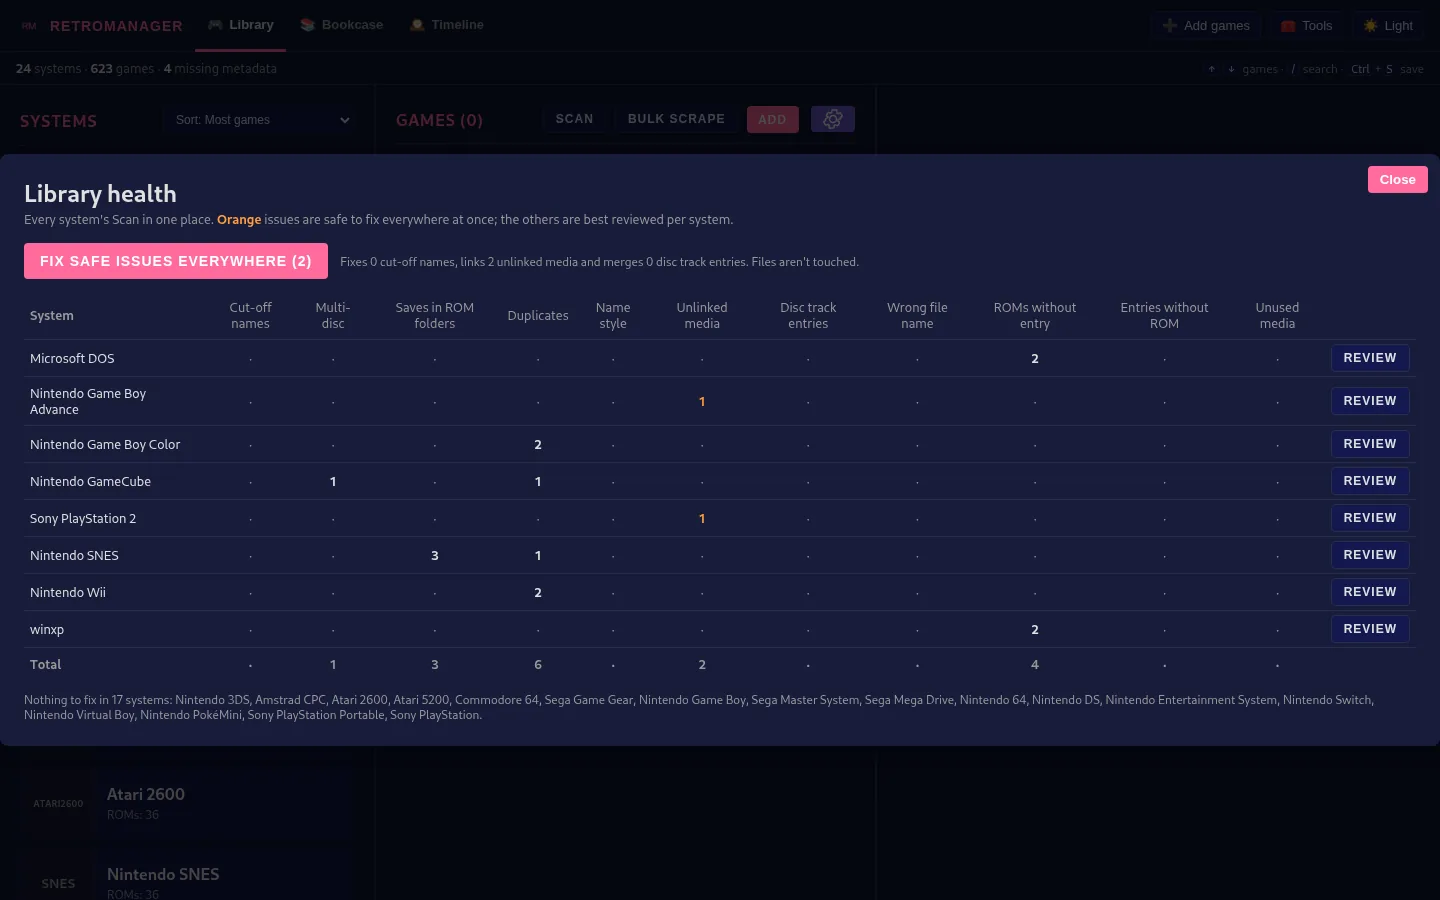
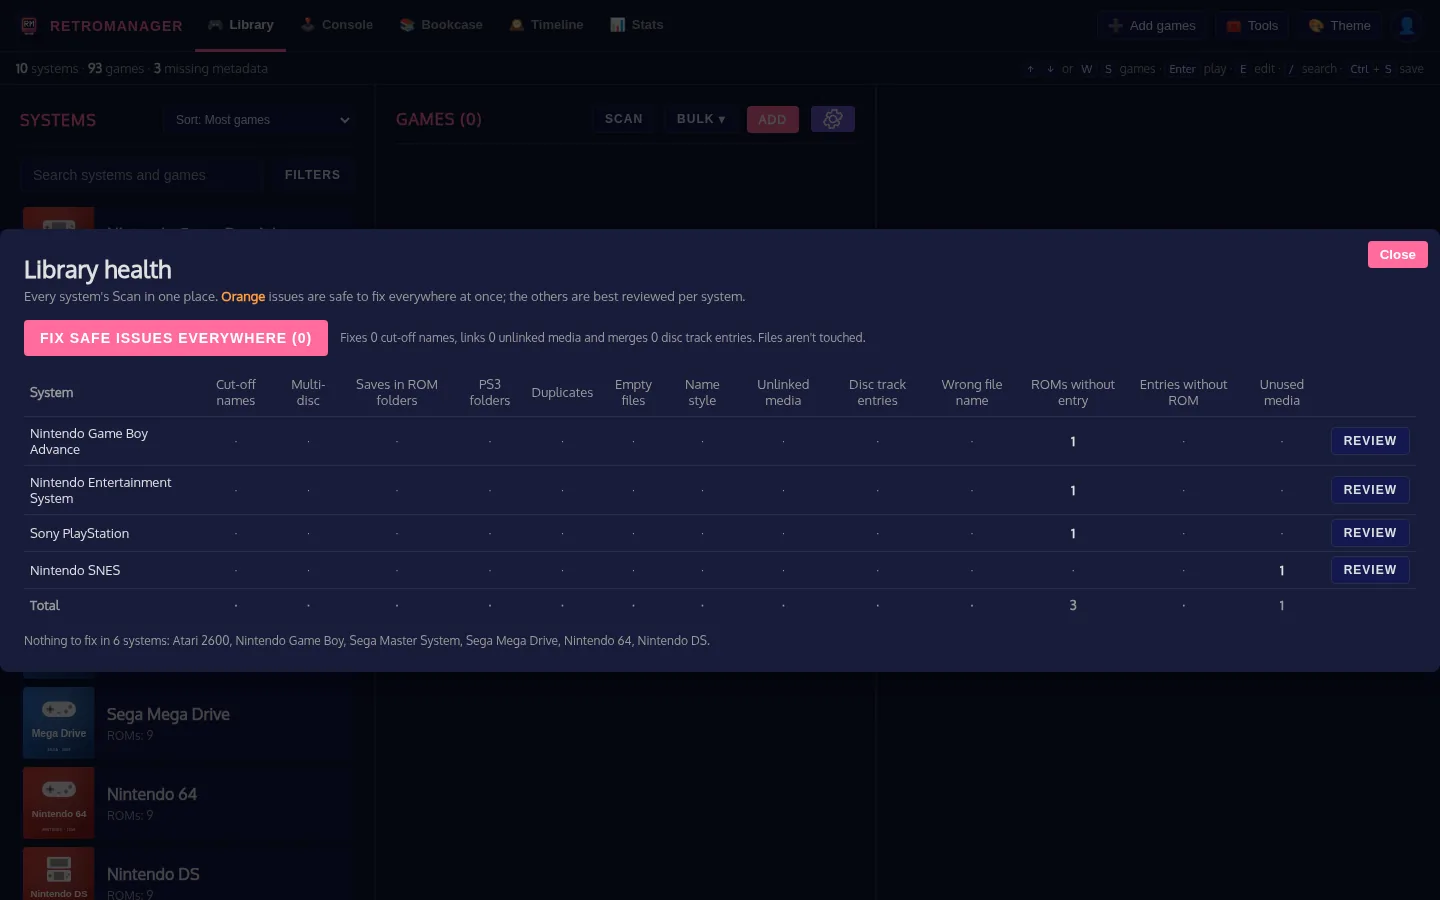
RetroManager 2.0.1: screenshots of made-up games
The README's screenshots now show a demo library of invented games, with
names, descriptions and pictures drawn by tools/make_demo_library.py, so
they show no one else's games. tools/take_screenshots.py takes them again.

diff --git a/tools/make_demo_library.py b/tools/make_demo_library.py
@@ -1,0 +1,221 @@
+"""
+Makes a demo library of made-up games, for screenshots of RetroManager that
+show no one else's games: every name, description and picture here is
+invented, and the pictures (box, spine, screenshot, logo) are drawn by this
+script from shapes and Pillow's own font. The "ROM" files are a few bytes of
+nothing: they don't run.
+
+    python tools/make_demo_library.py <folder>
+
+makes <folder>/roms, <folder>/media and the rest, the layout RetroManager
+expects; point it there (as tools/take_screenshots.py does) to look at it.
+"""
+
+import os
+import random
+import sys
+from pathlib import Path
+from xml.sax.saxutils import escape
+
+from PIL import Image, ImageDraw, ImageFilter, ImageFont
+
+# system folder -> (file extension, years the games are from, box shape (w, h), spine width)
+SYSTEMS = {
+    'atari2600': ('.a26', (1978, 1984), (300, 400), 50),
+    'nes': ('.nes', (1985, 1993), (290, 400), 44),
+    'mastersystem': ('.sms', (1986, 1993), (290, 400), 44),
+    'snes': ('.sfc', (1991, 1998), (400, 290), 50),
+    'megadrive': ('.md', (1990, 1997), (290, 410), 56),
+    'gb': ('.gb', (1990, 1999), (300, 300), 34),
+    'n64': ('.z64', (1996, 2002), (400, 290), 56),
+    'psx': ('.cue', (1995, 2003), (400, 400), 40),
+    'gba': ('.gba', (2001, 2008), (300, 300), 34),
+    'nds': ('.nds', (2005, 2012), (300, 270), 30),
+}
+WORDS_A = ['Star', 'Moon', 'Pixel', 'Crystal', 'Thunder', 'Neon', 'Shadow', 'Rocket', 'Copper', 'Velvet', 'Comet', 'Ember',
+           'Frost', 'Turbo', 'Echo', 'Lumen', 'Nova', 'Cobalt', 'Willow', 'Quartz', 'Orbit', 'Maple', 'Tidal', 'Solar']
+WORDS_B = ['Knights', 'Racer', 'Quest', 'Garden', 'Legends', 'Patrol', 'Odyssey', 'Kingdom', 'Rally', 'Harbour', 'Drift',
+           'Academy', 'Frontier', 'Circus', 'Voyage', 'Workshop', 'Arena', 'Tales', 'Express', 'Island', 'Mansion', 'Derby']
+GENRES = ['Platform', 'Racing', 'Puzzle', 'Role Playing Game', 'Shooter', 'Adventure', 'Sports', 'Fighting', 'Strategy']
+STUDIOS = ['Bright Hill Games', 'Paper Lantern', 'Studio Kestrel', 'Northwind Soft', 'Little Orbit Works', 'Mosaic Bay',
+           'Tin Robot', 'Harbourlight', 'Quiet Fox Studio', 'Sunday Arcade']
+PALETTES = [((32, 40, 110), (236, 92, 140)), ((18, 80, 92), (250, 196, 70)), ((70, 26, 92), (90, 220, 230)),
+            ((140, 30, 40), (255, 210, 120)), ((20, 60, 40), (170, 240, 120)), ((40, 40, 48), (255, 130, 60)),
+            ((10, 30, 70), (120, 170, 255)), ((96, 52, 20), (255, 236, 180))]
+
+
+def font(size):
+    return ImageFont.load_default(size=size)
+
+
+def gradient(size, top, bottom):
+    w, h = size
+    im = Image.new('RGB', size, top)
+    d = ImageDraw.Draw(im)
+    for y in range(h):
+        t = y / max(1, h - 1)
+        d.line([(0, y), (w, y)], fill=tuple(int(a + (b - a) * t) for a, b in zip(top, bottom)))
+    return im
+
+
+def scene(im, rng, accent):
+    """Hills, a sun or moon, and a scatter of stars or shapes."""
+    w, h = im.size
+    d = ImageDraw.Draw(im)
+    for _ in range(40):
+        x, y, r = rng.uniform(0, w), rng.uniform(0, h * 0.6), rng.uniform(0.6, 2.2)
+        d.ellipse([x - r, y - r, x + r, y + r], fill=(255, 255, 255))
+    cx, cy, r = rng.uniform(w * 0.2, w * 0.8), rng.uniform(h * 0.15, h * 0.4), rng.uniform(w * 0.08, w * 0.16)
+    d.ellipse([cx - r, cy - r, cx + r, cy + r], fill=accent)
+    for layer in range(3):
+        base = h * (0.62 + layer * 0.1)
+        shade = tuple(max(0, int(c * (0.35 + layer * 0.15))) for c in accent)
+        points = [(0, h)]
+        for i in range(9):
+            points.append((w * i / 8, base - rng.uniform(0, h * 0.12)))
+        points.append((w, h))
+        d.polygon(points, fill=shade)
+
+
+def title_lines(name, width, size):
+    words, lines, line = name.split(), [], ''
+    f = font(size)
+    for word in words:
+        trial = (line + ' ' + word).strip()
+        if f.getlength(trial) > width and line:
+            lines.append(line)
+            line = word
+        else:
+            line = trial
+    lines.append(line)
+    return lines
+
+
+def box(name, system, palette, rng, size):
+    w, h = size
+    im = gradient(size, palette[0], tuple(min(255, c // 3) for c in palette[0]))
+    scene(im, rng, palette[1])
+    d = ImageDraw.Draw(im)
+    # A band along the top with the title
+    d.rectangle([0, 0, w, int(h * 0.27)], fill=tuple(c // 2 for c in palette[0]))
+    size_t = max(22, int(w * 0.1))
+    for i, line in enumerate(title_lines(name, w * 0.86, size_t)[:2]):
+        d.text((w * 0.07 + 2, h * 0.04 + i * size_t * 1.1 + 2), line, font=font(size_t), fill=(0, 0, 0))
+        d.text((w * 0.07, h * 0.04 + i * size_t * 1.1), line, font=font(size_t), fill=(255, 255, 255))
+    d.rectangle([0, h - 26, w, h], fill=(16, 16, 20))
+    d.text((10, h - 22), 'DEMO · MADE-UP GAME', font=font(14), fill=palette[1])
+    return im
+
+
+def spine(name, palette, size):
+    w, h = size   # (the spine stands up: drawn long and turned)
+    strip = Image.new('RGB', (h, w), tuple(c // 2 for c in palette[0]))
+    d = ImageDraw.Draw(strip)
+    d.rectangle([0, 0, 18, w], fill=palette[1])
+    d.text((30, w / 2 - 11), name, font=font(max(14, int(w * 0.42))), fill=(255, 255, 255))
+    return strip.rotate(90, expand=True)
+
+
+def screenshot(palette, rng):
+    """A small picture of a made-up game, scaled up with its pixels square."""
+    w, h = 160, 120
+    im = gradient((w, h), palette[0], tuple(min(255, c + 40) for c in palette[0]))
+    d = ImageDraw.Draw(im)
+    for x in range(0, w, 16):
+        top = h - 16 - rng.choice([0, 0, 16, 32])
+        d.rectangle([x, top, x + 15, h], fill=tuple(c // 2 for c in palette[1]))
+        d.rectangle([x, top, x + 15, top + 3], fill=palette[1])
+    px = rng.randrange(20, w - 30)
+    d.rectangle([px, h - 46, px + 9, h - 33], fill=(255, 255, 255))
+    for _ in range(5):
+        x, y = rng.randrange(8, w - 8), rng.randrange(10, h - 60)
+        d.ellipse([x, y, x + 5, y + 5], fill=palette[1])
+    d.text((4, 3), f'SCORE {rng.randrange(1, 99) * 100:06d}', font=font(9), fill=(255, 255, 255))
+    return im.resize((640, 480), Image.NEAREST)
+
+
+def logo(name, palette):
+    f = font(64)
+    width = int(f.getlength(name)) + 40
+    im = Image.new('RGBA', (width, 110), (0, 0, 0, 0))
+    d = ImageDraw.Draw(im)
+    d.text((20, 18), name, font=f, fill=palette[1] + (255,), stroke_width=6, stroke_fill=(20, 20, 30, 255))
+    return im
+
+
+def main(target: Path):
+    rng = random.Random(2026)
+    names, used = [], set()
+    while len(names) < 90:
+        name = f"{rng.choice(WORDS_A)} {rng.choice(WORDS_B)}"
+        if name not in used:
+            used.add(name)
+            names.append(name)
+    (target / 'retromanager').mkdir(parents=True, exist_ok=True)
+    (target / 'retromanager' / 'setup.json').write_text('{"done": true}')
+    for sub in ('saves', 'savestates', 'BIOS', 'inbox', 'save-backups'):
+        (target / sub).mkdir(parents=True, exist_ok=True)
+    # Point RetroManager at it to learn each system's media folder name
+    os.environ.update(ROMS_PATH=str(target / 'roms'), MEDIA_PATH=str(target / 'media'), DATA_PATH=str(target / 'retromanager'),
+                      RETROMANAGER_NO_BACKGROUND='1', LOG_LEVEL='WARNING')
+    per_system = {system: [] for system in SYSTEMS}
+    for i, name in enumerate(names):
+        per_system[list(SYSTEMS)[i % len(SYSTEMS)]].append(name)
+    for system, (ext, (start, end), shape, spine_w) in SYSTEMS.items():
+        folder = target / 'roms' / system
+        folder.mkdir(parents=True, exist_ok=True)
+        for name in per_system[system]:
+            (folder / f"{name}{ext}").write_bytes(b'RetroManager demo: not a game\n')
+    # (a media folder named after each system, so each finds its own and not a neighbour's)
+    for system in SYSTEMS:
+        (target / 'media' / system).mkdir(parents=True, exist_ok=True)
+    sys.path.insert(0, str(Path(__file__).resolve().parent.parent))
+    from backend.core import scanner
+    for system, (ext, (start, end), shape, spine_w) in SYSTEMS.items():
+        media_system = scanner.media_index(system).media_system
+        media = target / 'media' / media_system
+        entries = []
+        for name in per_system[system]:
+            palette = rng.choice(PALETTES)
+            game_rng = random.Random(name)
+            year = rng.randint(start, end)
+            studio = rng.choice(STUDIOS)
+            genre = rng.choice(GENRES)
+            pictures = {
+                'box2d': box(name, system, palette, game_rng, shape),
+                'boxside': spine(name, palette, (spine_w, shape[1])),
+                'screenshot': screenshot(palette, game_rng),
+                'wheel': logo(name, palette),
+            }
+            for kind, picture in pictures.items():
+                (media / kind).mkdir(parents=True, exist_ok=True)
+                picture.save(media / kind / f"{name}.png")
+            desc = (f"{name} is a made-up {genre.lower()} game, invented for RetroManager's demo library. "
+                    f"Nothing about it is real: not the game, not {studio}, and not this picture of it.")
+            entries.append(f"""  <game>
+    <path>./{escape(name)}{ext}</path>
+    <name>{escape(name)}</name>
+    <desc>{escape(desc)}</desc>
+    <image>../../media/{escape(media_system)}/box2d/{escape(name)}.png</image>
+    <thumbnail>../../media/{escape(media_system)}/screenshot/{escape(name)}.png</thumbnail>
+    <rating>{rng.choice([0.5, 0.6, 0.7, 0.8, 0.9])}</rating>
+    <releasedate>{year}{rng.randint(1, 12):02d}{rng.randint(1, 28):02d}T000000</releasedate>
+    <developer>{escape(studio)}</developer>
+    <publisher>{escape(rng.choice(STUDIOS))}</publisher>
+    <genre>{escape(genre)}</genre>
+    <players>{rng.choice(['1', '1', '1-2', '1-4'])}</players>
+  </game>""")
+        (folder := target / 'roms' / system).mkdir(exist_ok=True)
+        # A little for Library health to show: games with no entry yet, and a picture nothing uses
+        if system in ('nes', 'psx', 'gba'):
+            (folder / f"Untitled Prototype{ext}").write_bytes(b'RetroManager demo: not a game\n')
+        if system == 'snes':
+            screenshot(rng.choice(PALETTES), random.Random(system)).save(media / 'screenshot' / 'Old Picture.png')
+        (folder / 'gamelist.xml').write_text('<?xml version="1.0"?>\n<gameList>\n' + '\n'.join(entries) + '\n</gameList>\n')
+        print(f"{system}: {len(entries)} games, pictures in media/{media_system}")
+
+
+if __name__ == '__main__':
+    if len(sys.argv) != 2:
+        sys.exit(__doc__)
+    main(Path(sys.argv[1]).resolve())

diff --git a/tools/take_screenshots.py b/tools/take_screenshots.py
@@ -1,0 +1,95 @@
+"""
+Takes the README's screenshots (docs/screenshots/*.webp) of RetroManager
+running against the demo library of made-up games (tools/make_demo_library.py),
+so they show no one else's games. Needs a Chromium-family browser on this
+machine and Playwright for Python (it drives the browser that's there, and
+downloads none):
+
+    python tools/make_demo_library.py /tmp/demo
+    python tools/take_screenshots.py /tmp/demo /usr/bin/chromium
+"""
+
+import io
+import os
+import subprocess
+import sys
+import time
+import urllib.request
+from pathlib import Path
+
+from PIL import Image
+from playwright.sync_api import sync_playwright
+
+ROOT = Path(__file__).resolve().parent.parent
+OUT = ROOT / 'docs' / 'screenshots'
+PORT = 5077
+SIZE = {'width': 1440, 'height': 900}
+
+
+def serve(library: Path):
+    env = dict(os.environ, ROMS_PATH=str(library / 'roms'), MEDIA_PATH=str(library / 'media'),
+               DATA_PATH=str(library / 'retromanager'), SAVES_PATH=str(library / 'saves'),
+               SAVESTATES_PATH=str(library / 'savestates'), SAVE_BACKUP_PATH=str(library / 'save-backups'),
+               INBOX_PATH=str(library / 'inbox'), BIOS_PATH=str(library / 'BIOS'), THUMB_DIR=str(library / 'retromanager' / 'thumbs'),
+               SAVE_PROFILES='', RETROMANAGER_NO_BACKGROUND='1', LOG_LEVEL='WARNING', SYSTEM_TILES='1')
+    for name in [n for n in env if n.startswith(('SCREENSCRAPER', 'IGDB', 'RETROACHIEVEMENTS', 'STEAMGRIDDB', 'THEGAMESDB'))]:
+        del env[name]
+    code = f"from backend.app import app; app.run(port={PORT})"
+    server = subprocess.Popen([sys.executable, '-c', code], cwd=ROOT, env=env)
+    for _ in range(60):
+        try:
+            urllib.request.urlopen(f'http://127.0.0.1:{PORT}/api/health', timeout=1)
+            return server
+        except OSError:
+            time.sleep(0.5)
+    server.kill()
+    sys.exit("RetroManager didn't start")
+
+
+def save(page, name):
+    picture = Image.open(io.BytesIO(page.screenshot()))
+    picture.save(OUT / f'{name}.webp', quality=82, method=6)
+    print('Wrote', OUT / f'{name}.webp')
+
+
+def settle(page, seconds=2.5):
+    page.wait_for_load_state('networkidle')
+    time.sleep(seconds)
+
+
+def main(library: Path, browser_path: str):
+    first_gba = sorted((library / 'roms' / 'gba').glob('*.gba'))[3].name
+    server = serve(library)
+    try:
+        with sync_playwright() as p:
+            browser = p.chromium.launch(executable_path=browser_path, headless=True)
+            page = browser.new_page(viewport=SIZE, device_scale_factor=1)
+            page.goto(f'http://127.0.0.1:{PORT}/?system=gba&game=./{first_gba}')
+            settle(page)
+            save(page, 'library')
+            page.goto(f'http://127.0.0.1:{PORT}/?tool=health')
+            settle(page)
+            save(page, 'library-health')
+            page.goto(f'http://127.0.0.1:{PORT}/shelf')
+            settle(page, 4)
+            save(page, 'bookcase')
+            # (the shelf works out which box was clicked from where: a click there, as a mouse makes it)
+            spot = page.locator('.spine').nth(5).bounding_box()
+            page.mouse.click(spot['x'] + spot['width'] / 2, spot['y'] + spot['height'] / 2)
+            settle(page, 2)
+            save(page, 'bookcase-open')
+            page.goto(f'http://127.0.0.1:{PORT}/timeline')
+            settle(page, 4)
+            save(page, 'timeline')
+            page.get_by_role('button', name='Decades').first.click()
+            settle(page, 3)
+            save(page, 'timeline-decades')
+            browser.close()
+    finally:
+        server.terminate()
+
+
+if __name__ == '__main__':
+    if len(sys.argv) != 3:
+        sys.exit(__doc__)
+    main(Path(sys.argv[1]).resolve(), sys.argv[2])

diff --git a/README.md b/README.md
@@ -41,23 +41,23 @@ To run the published image instead of building it, put `image: ghcr.io/deltagemi
 
 ## Screenshots
 
-*The games, box art and logos in these screenshots are for illustration only: they belong to their publishers and are not included with RetroManager.*
+*These show a demo library of made-up games: every name, description and picture in them was invented and drawn by `tools/make_demo_library.py`, so they show no one else's games. No games of any kind are included with RetroManager.*
 
-**Library**: systems, games and the details editor.
+**Library**: systems, games and a game's details.
 
-![Library page with Game Boy Advance games and The Legend of Zelda: The Minish Cap open](docs/screenshots/library.webp)
+![Library page with a demo library's Game Boy Advance games and one made-up game open](docs/screenshots/library.webp)
 
-**Bookcase**: one shelf per system; hovering turns a box to face you.
+**Bookcase**: one shelf per system, each game's box spine out.
 
-![Bookcase with Atari 2600 games, Asteroids turned to face out](docs/screenshots/bookcase.webp)
+![Bookcase with made-up games on the Atari 2600 and Nintendo 64 shelves](docs/screenshots/bookcase.webp)
 
 Click a box to take it off the shelf:
 
-![A SNES box taken off the shelf, with its details card](docs/screenshots/bookcase-open.webp)
+![A made-up game's box taken off the shelf, with its details card](docs/screenshots/bookcase-open.webp)
 
-**Timeline**: every game by release year. Pick series to join their games with a line.
+**Timeline**: every game by release year, or grouped by decade. Pick series to join their games with a line.
 
-![Timeline with the Star Wars and The Legend of Zelda series lines](docs/screenshots/timeline.webp)
+![Timeline of the demo library by year](docs/screenshots/timeline.webp)
 
 ![Timeline grouped by decade](docs/screenshots/timeline-decades.webp)
 

diff --git a/CREDITS.md b/CREDITS.md
@@ -15,10 +15,11 @@ that it fetches or talks to, and the terms each is under.
 | Star icons of the Switch colour themes | `frontend/themes/switch/star-*.svg` | The same theme | CC BY-NC-SA |
 | Oxygen font | `frontend/themes/switch/Oxygen-Regular.ttf` | Vernon Adams | SIL Open Font License 1.1 (`frontend/themes/switch/OFL.txt`) |
 
-The screenshots in `docs/screenshots/` show a library's games (titles, box
-art, logos and game screens) for illustration only. Those games and their
-artwork belong to their publishers and owners; none of them is part of
-RetroManager or included with it.
+The screenshots in `docs/screenshots/` show a demo library of made-up games,
+drawn by `tools/make_demo_library.py`: no real game, box art or logo is in
+them. Any real game that ever appears in a picture of RetroManager is there for
+illustration only, belongs to its publisher, and is not part of RetroManager
+or included with it.
 
 The consoles' and publishers' names and logos, wherever they appear (in the
 optional system pictures, and in pictures and names fetched for your games),

diff --git a/docs/screenshots/README.md b/docs/screenshots/README.md
@@ -2,8 +2,13 @@
 
 Pictures of RetroManager in use, for the main README.
 
-**The games shown are for illustration only.** Their titles, box art, logos
-and game screens belong to their publishers and owners. They are not part of
-RetroManager and are not included in, distributed with or obtainable through
-this project: RetroManager organises a library its user already has, and comes
-with no games, BIOS files or game media of any kind.
+They show a **demo library of made-up games**: every game name, description,
+studio and picture in them was invented, and the pictures were drawn by
+`tools/make_demo_library.py` from shapes. `tools/take_screenshots.py` takes
+them again from that library. No real game, box art or logo appears in them.
+
+The consoles' names (on the system tiles, which RetroManager draws itself) are
+there only to say which system is which; they belong to their makers.
+
+RetroManager comes with no games, BIOS files or game media of any kind: it
+organises a library its user already has.
